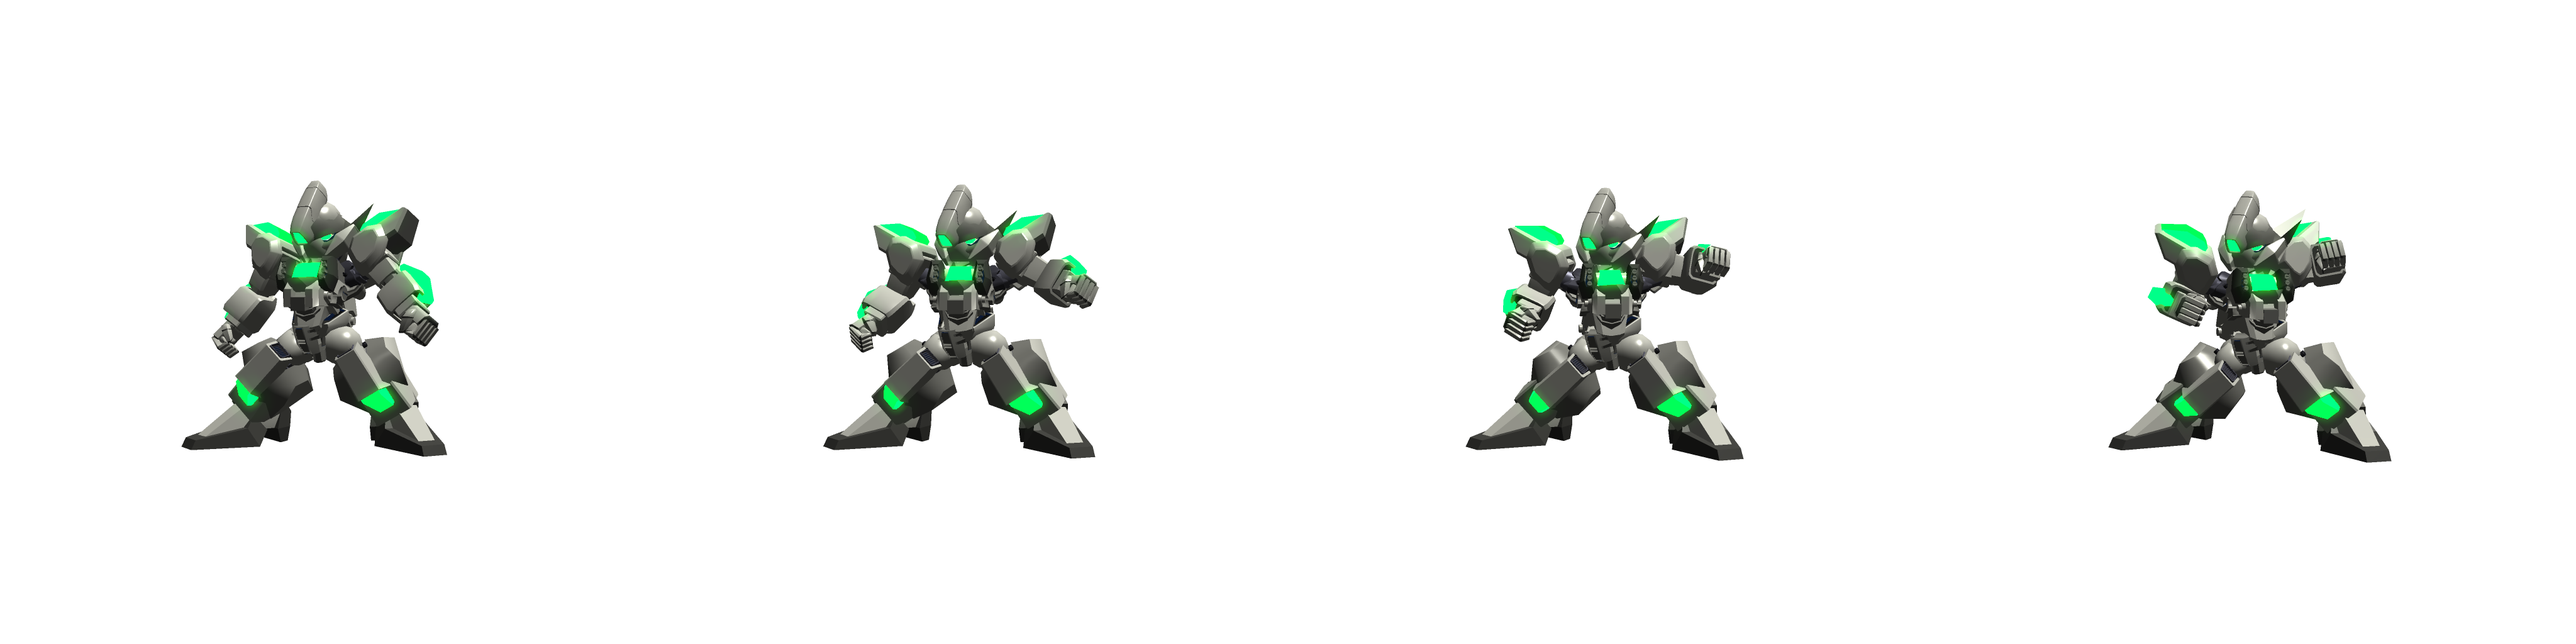
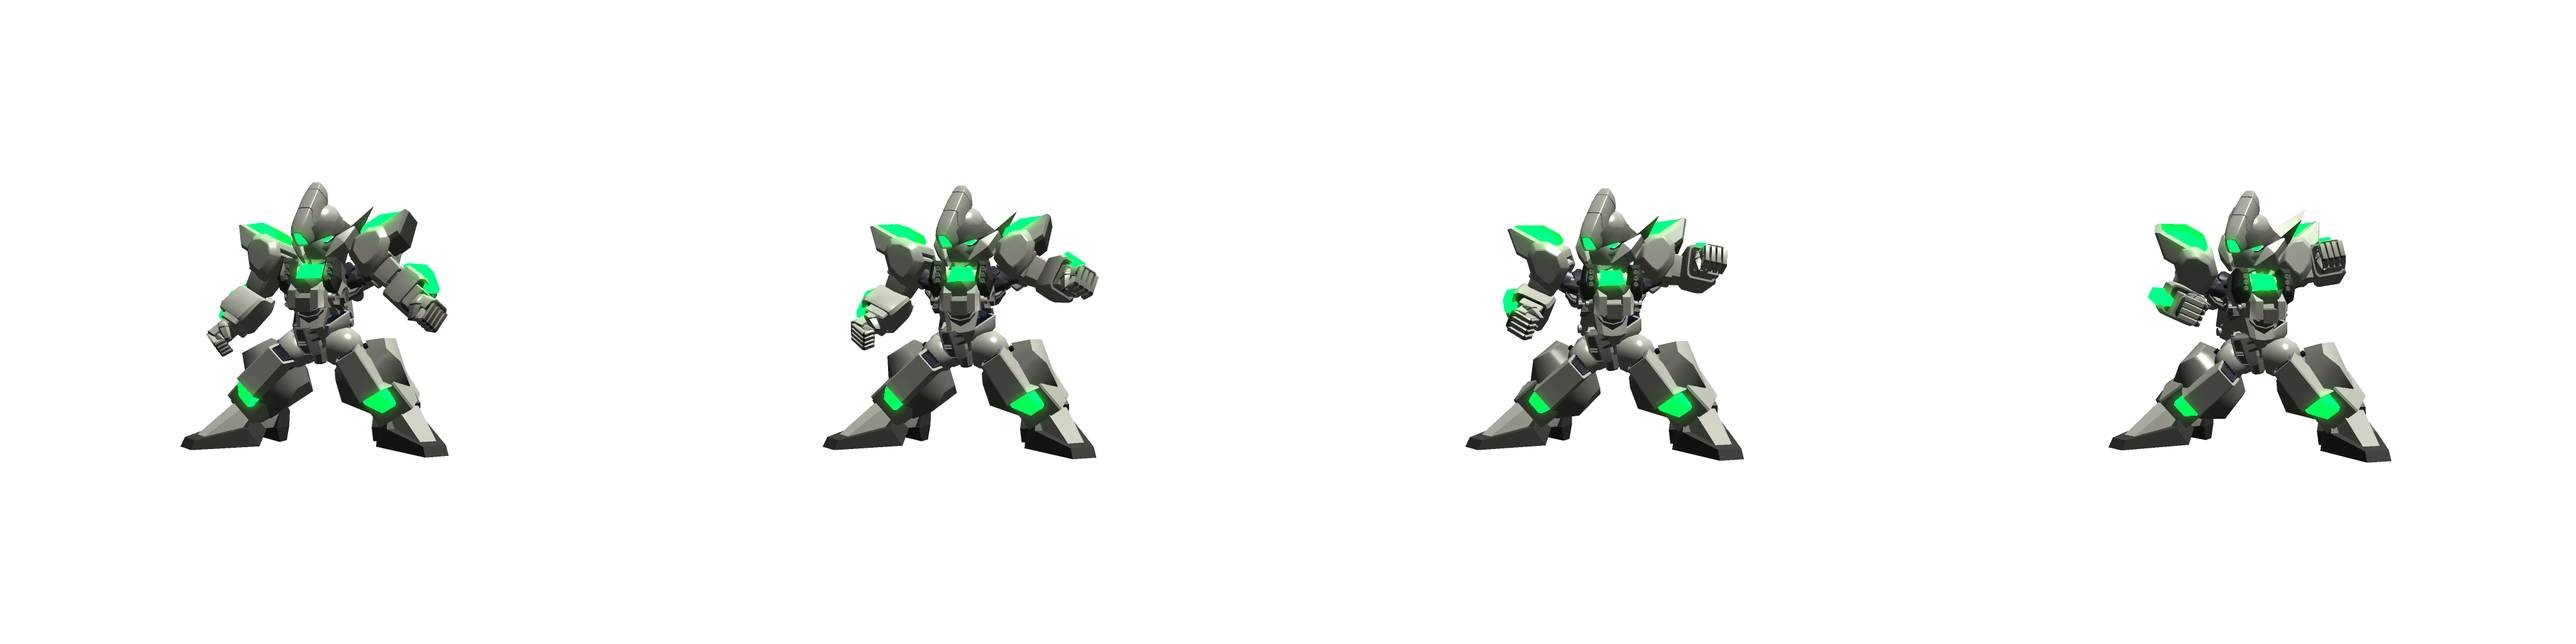
シンブレイバーのパンチモーションを改良

diff --git a/src/game-object/armdozer/shin-breaver/animation/straight-punch.js b/src/game-object/armdozer/shin-breaver/animation/straight-punch.js
@@ -5,10 +5,11 @@ import {process} from "../../../../animation/process";
 import {tween} from "../../../../animation/tween";
 import {Animate} from "../../../../animation/animate";
 import {delay} from "../../../../animation/delay";
+import {all} from '../../../../animation/all';
 
 /** ストレートパンチ */
 export function straightPunch(model: ShinBraverModel): Animate {
-  return process(() => {
+  const animation = process(() => {
     model.animation.type = 'SP_CHARGE';
     model.animation.frame = 0;
   }).chain(
@@ -35,12 +36,25 @@ export function straightPunch(model: ShinBraverModel): Animate {
     })
   ).chain(
     tween(model.animation, t => t
-      .to({frame: 1}, 500)
+      .to({frame: 1}, 250)
     )
   ).chain(
     process(() => {
       model.animation.type = 'STAND';
       model.animation.frame = 0;
     })
-  )
+  );
+  const move = delay(550)
+    .chain(tween(model.position, t => t
+      .to({x: '-80'}, 250)
+    )).chain(
+      delay(100)
+    ).chain(tween(model.position, t => t
+      .to({x: '+80'}, 250)
+    ));
+
+  return all(
+    animation,
+    move
+  );
 }

diff --git a/src/game-object/armdozer/shin-breaver/mesh/sp-to-stand.js b/src/game-object/armdozer/shin-breaver/mesh/sp-to-stand.js
@@ -7,7 +7,7 @@ import {HorizontalArmdozerAnimation} from "../../mesh/horizontal-animation";
 
 export const MESH_WIDTH = 600;
 export const MESH_HEIGHT = 600;
-export const MAX_ANIMATION = 8;
+export const MAX_ANIMATION = 4;
 
 /** ストレートパンチ -> 立ち */
 export function shinBraverSPToStand(resources: Resources): ArmdozerAnimation {
